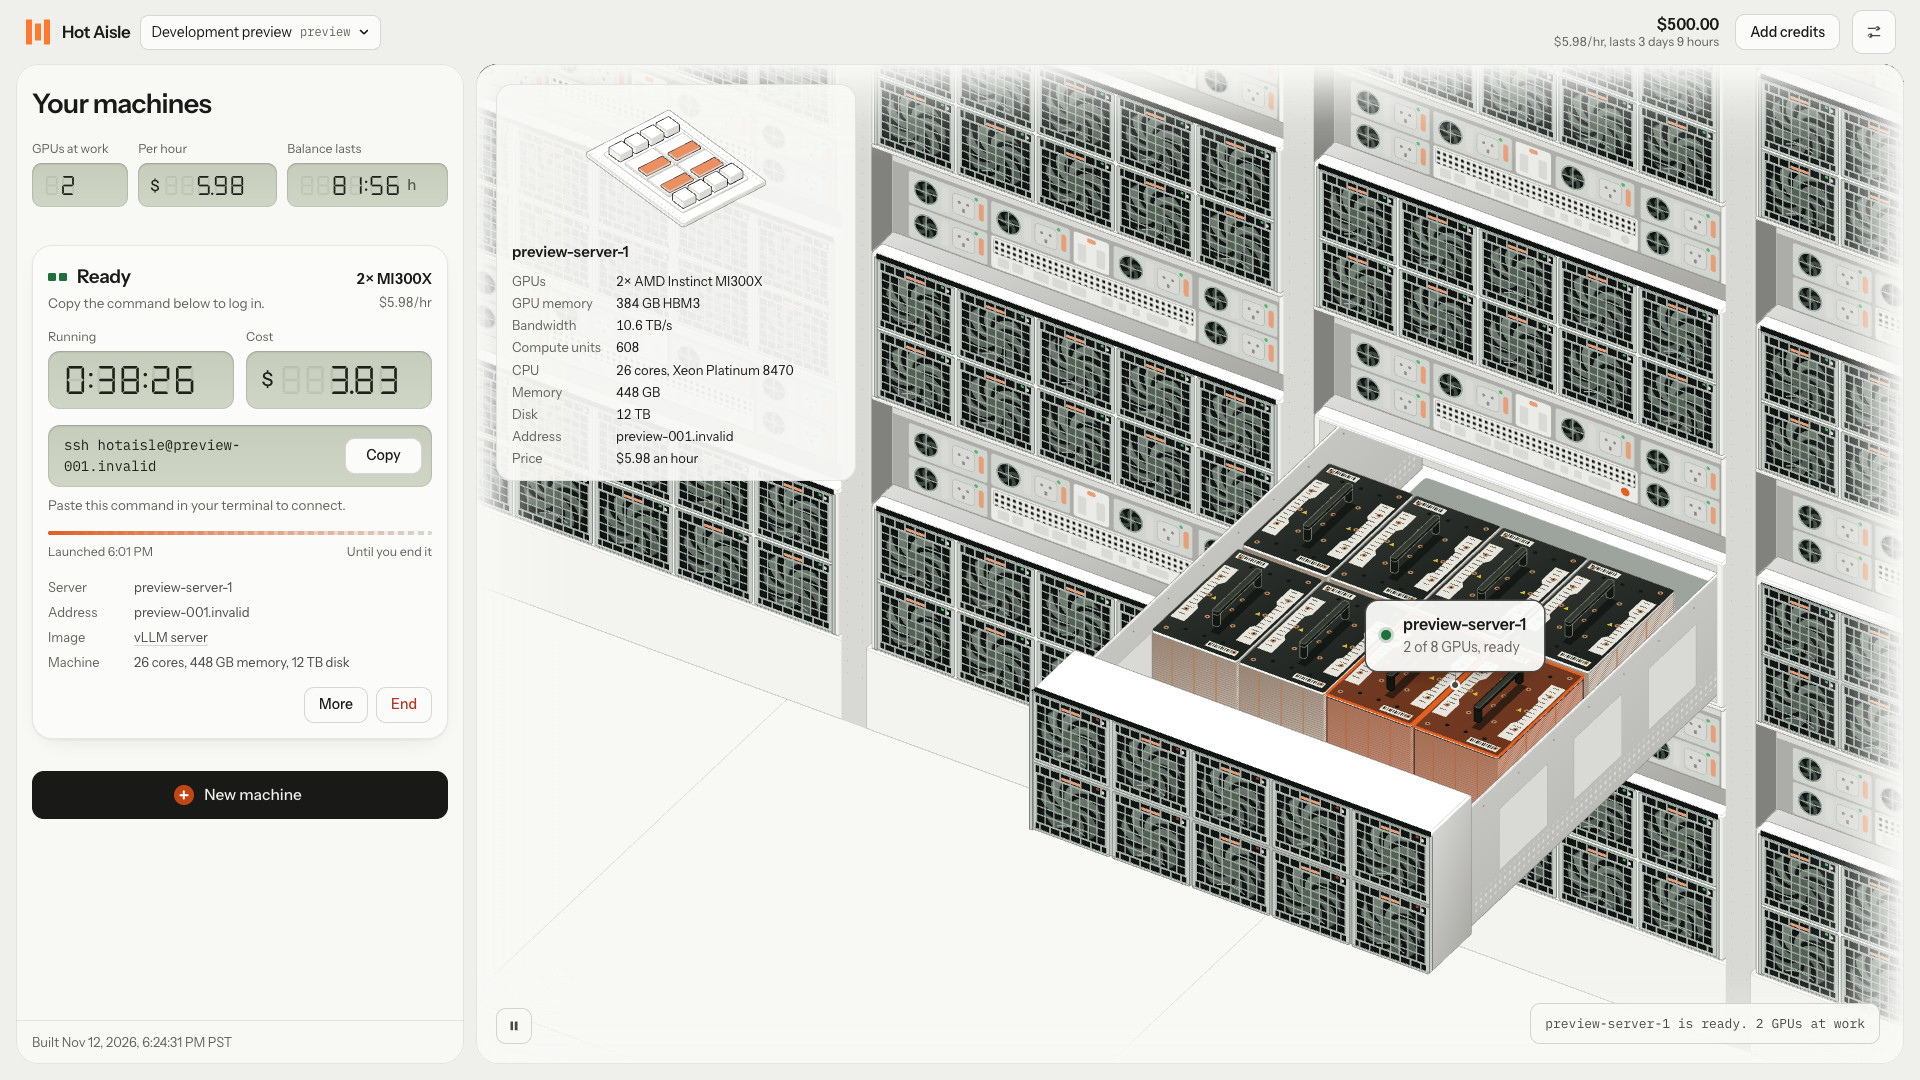
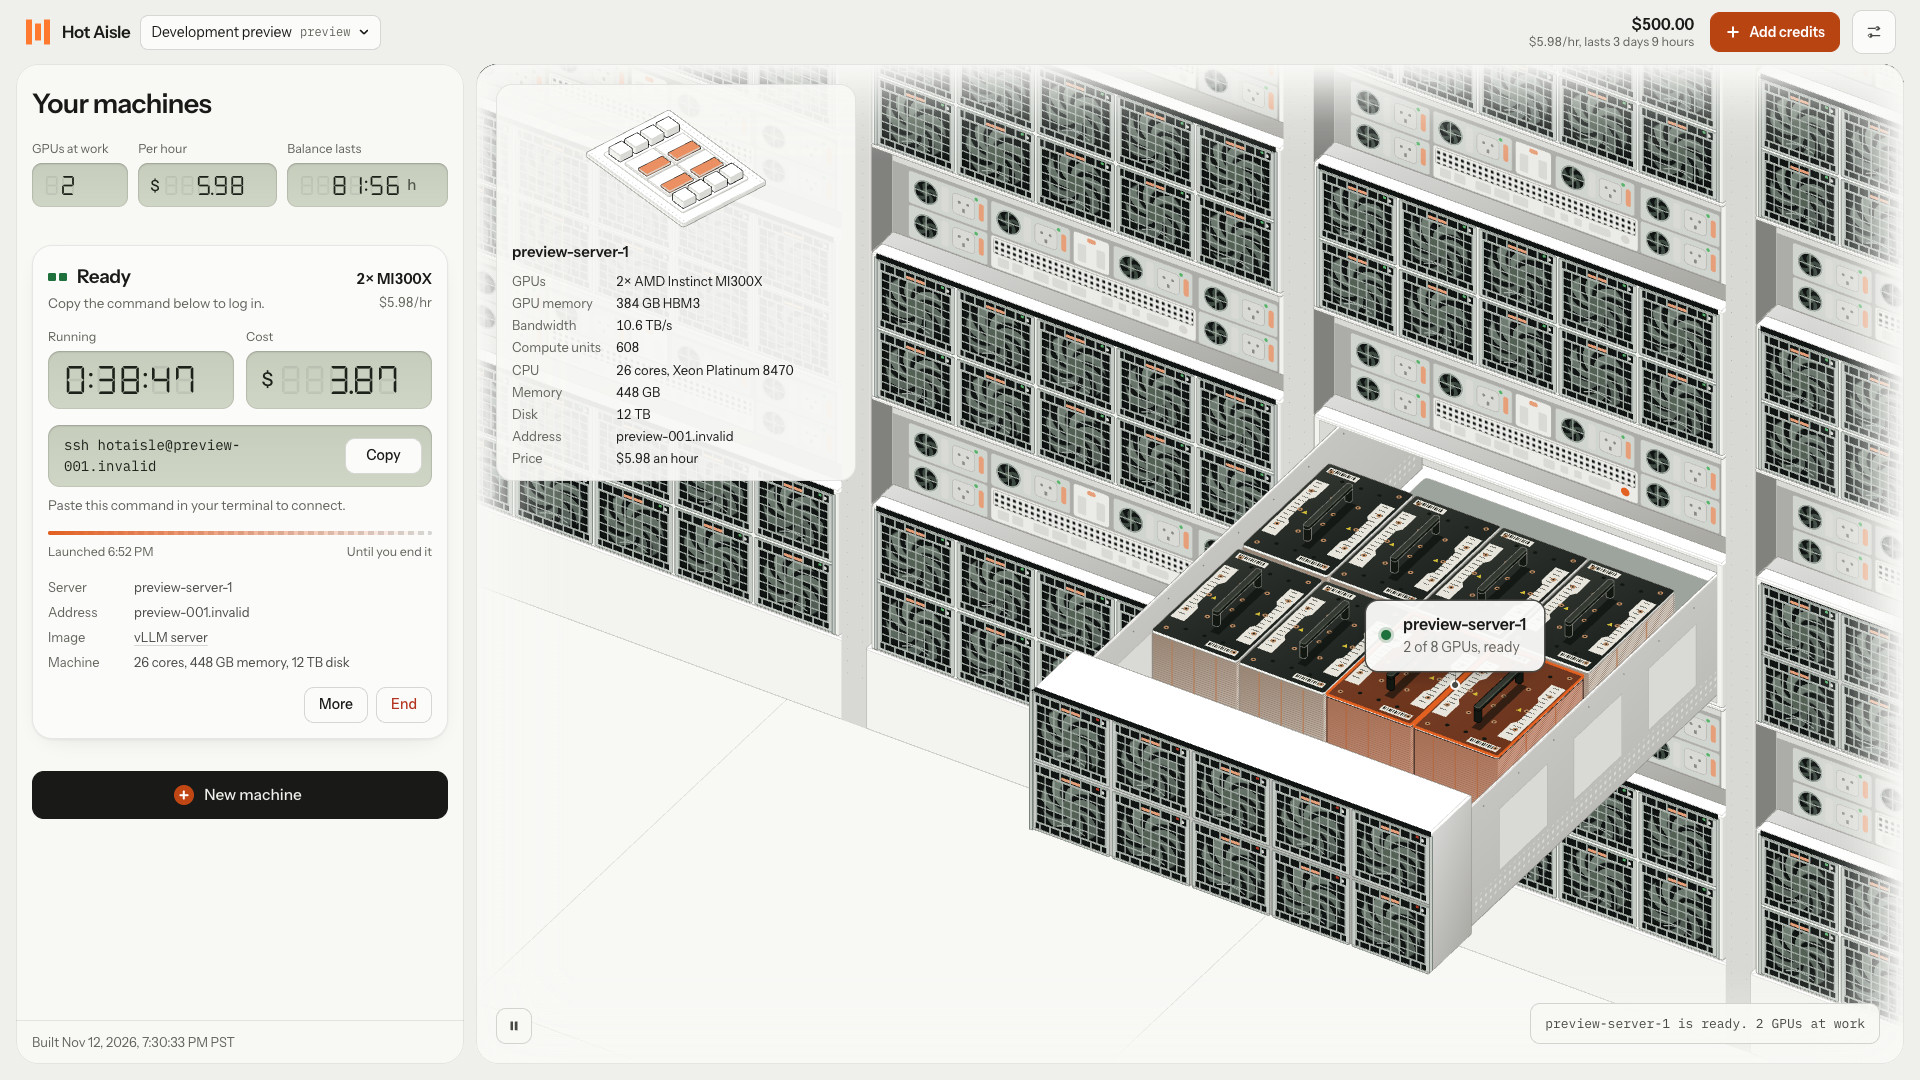
style(billing): clarify credit and automatic rebill actions
Make Add credits a prominent action and retain automatic rebill below the one-time credit form with a clearly clickable disclosure. Refresh Console screenshots.

diff --git a/web/src/features/console/auto-rebill.css b/web/src/features/console/auto-rebill.css
@@ -1,6 +1,7 @@
 .auto-rebill {
-	padding-block: 20px;
-	border-block-start: 1px solid var(--line);
+	background: var(--card);
+	border: 1px solid var(--line-2);
+	border-radius: 12px;
 }
 .credits-view > section + .auto-rebill {
 	margin-block-start: 28px;
@@ -8,21 +9,49 @@
 .auto-rebill > summary {
 	display: flex;
 	gap: 12px;
-	align-items: center;
-	justify-content: space-between;
-	font-size: 1rem;
-	font-weight: 600;
+	align-items: baseline;
+	padding: 18px;
 	cursor: pointer;
 	list-style: none;
+	border-radius: inherit;
+}
+.auto-rebill > summary:hover {
+	background: var(--card-2);
 }
 .auto-rebill > summary::-webkit-details-marker {
 	display: none;
 }
-.auto-rebill[open] > summary svg {
-	transform: rotate(180deg);
+.auto-rebill > summary > svg {
+	flex: none;
+	color: var(--heat-ink);
+	transform: rotate(-90deg);
 }
+.auto-rebill[open] > summary > svg {
+	transform: rotate(0deg);
+}
+.rebill-introduction {
+	display: grid;
+	gap: 6px;
+}
+.rebill-introduction strong {
+	font-size: 1.125rem;
+}
+.rebill-introduction > span {
+	font-size: 0.875rem;
+	line-height: 1.5;
+	color: var(--ink-2);
+}
+.rebill-introduction .rebill-entry-action {
+	font-weight: 600;
+	color: var(--heat-ink);
+	text-decoration: underline;
+	text-underline-offset: 3px;
+}
+.auto-rebill > .rebill-controls,
+.auto-rebill > .stack,
 .auto-rebill > p {
-	margin-block: 10px 16px;
+	padding: 18px;
+	border-block-start: 1px solid var(--line);
 }
 .rebill-status,
 .rebill-actions {

diff --git a/web/src/features/console/auto-rebill.tsx b/web/src/features/console/auto-rebill.tsx
@@ -25,7 +25,6 @@ export function AutoRebill({ team }: { team: string }) {
 	return (
 		<details className="auto-rebill" onToggle={toggle}>
 			<summary>
-				<span>Automatic rebill</span>
 				<svg aria-hidden="true" height="16" viewBox="0 0 16 16" width="16">
 					<path
 						d="m4 6 4 4 4-4"
@@ -34,10 +33,14 @@ export function AutoRebill({ team }: { team: string }) {
 						strokeWidth="1.5"
 					/>
 				</svg>
+				<span className="rebill-introduction">
+					<strong>Automatic rebill</strong>
+					<span>Keep your team funded with automatic top-ups.</span>
+					<span className="rebill-entry-action">
+						{open ? "Close options" : "Click to view options"}
+					</span>
+				</span>
 			</summary>
-			<p className="muted small">
-				Automatically add credits when your team's balance runs low.
-			</p>
 			{open ? <AutoRebillControls key={team} team={team} /> : null}
 		</details>
 	);

diff --git a/web/src/features/console/console-header.tsx b/web/src/features/console/console-header.tsx
@@ -85,10 +85,20 @@ export function ConsoleHeader({
 			</div>
 			{canBuy ? (
 				<Link
-					className={`btn ${view === "credits" ? "on" : ""}`}
+					aria-current={view === "credits" ? "page" : undefined}
+					className="btn credits-cta"
 					search={search}
 					to={viewPath(team.handle, "credits")}
 				>
+					<svg aria-hidden="true" height="16" viewBox="0 0 16 16" width="16">
+						<path
+							d="M8 3v10M3 8h10"
+							fill="none"
+							stroke="currentColor"
+							strokeLinecap="round"
+							strokeWidth="2"
+						/>
+					</svg>
 					Add credits
 				</Link>
 			) : null}

diff --git a/web/src/styles/frame.css b/web/src/styles/frame.css
@@ -1,4 +1,19 @@
 /* ---------------------------------------------------------------- frame */
+.top .credits-cta {
+	gap: 8px;
+	min-block-size: 40px;
+	font-weight: 600;
+	color: #fff;
+	background: #b84412;
+	border-color: #b84412;
+}
+.top .credits-cta:hover {
+	background: #96350d;
+	border-color: #96350d;
+}
+.credits-cta svg {
+	flex: none;
+}
 .app {
 	display: grid;
 	grid-template-rows: auto minmax(0, 1fr);
